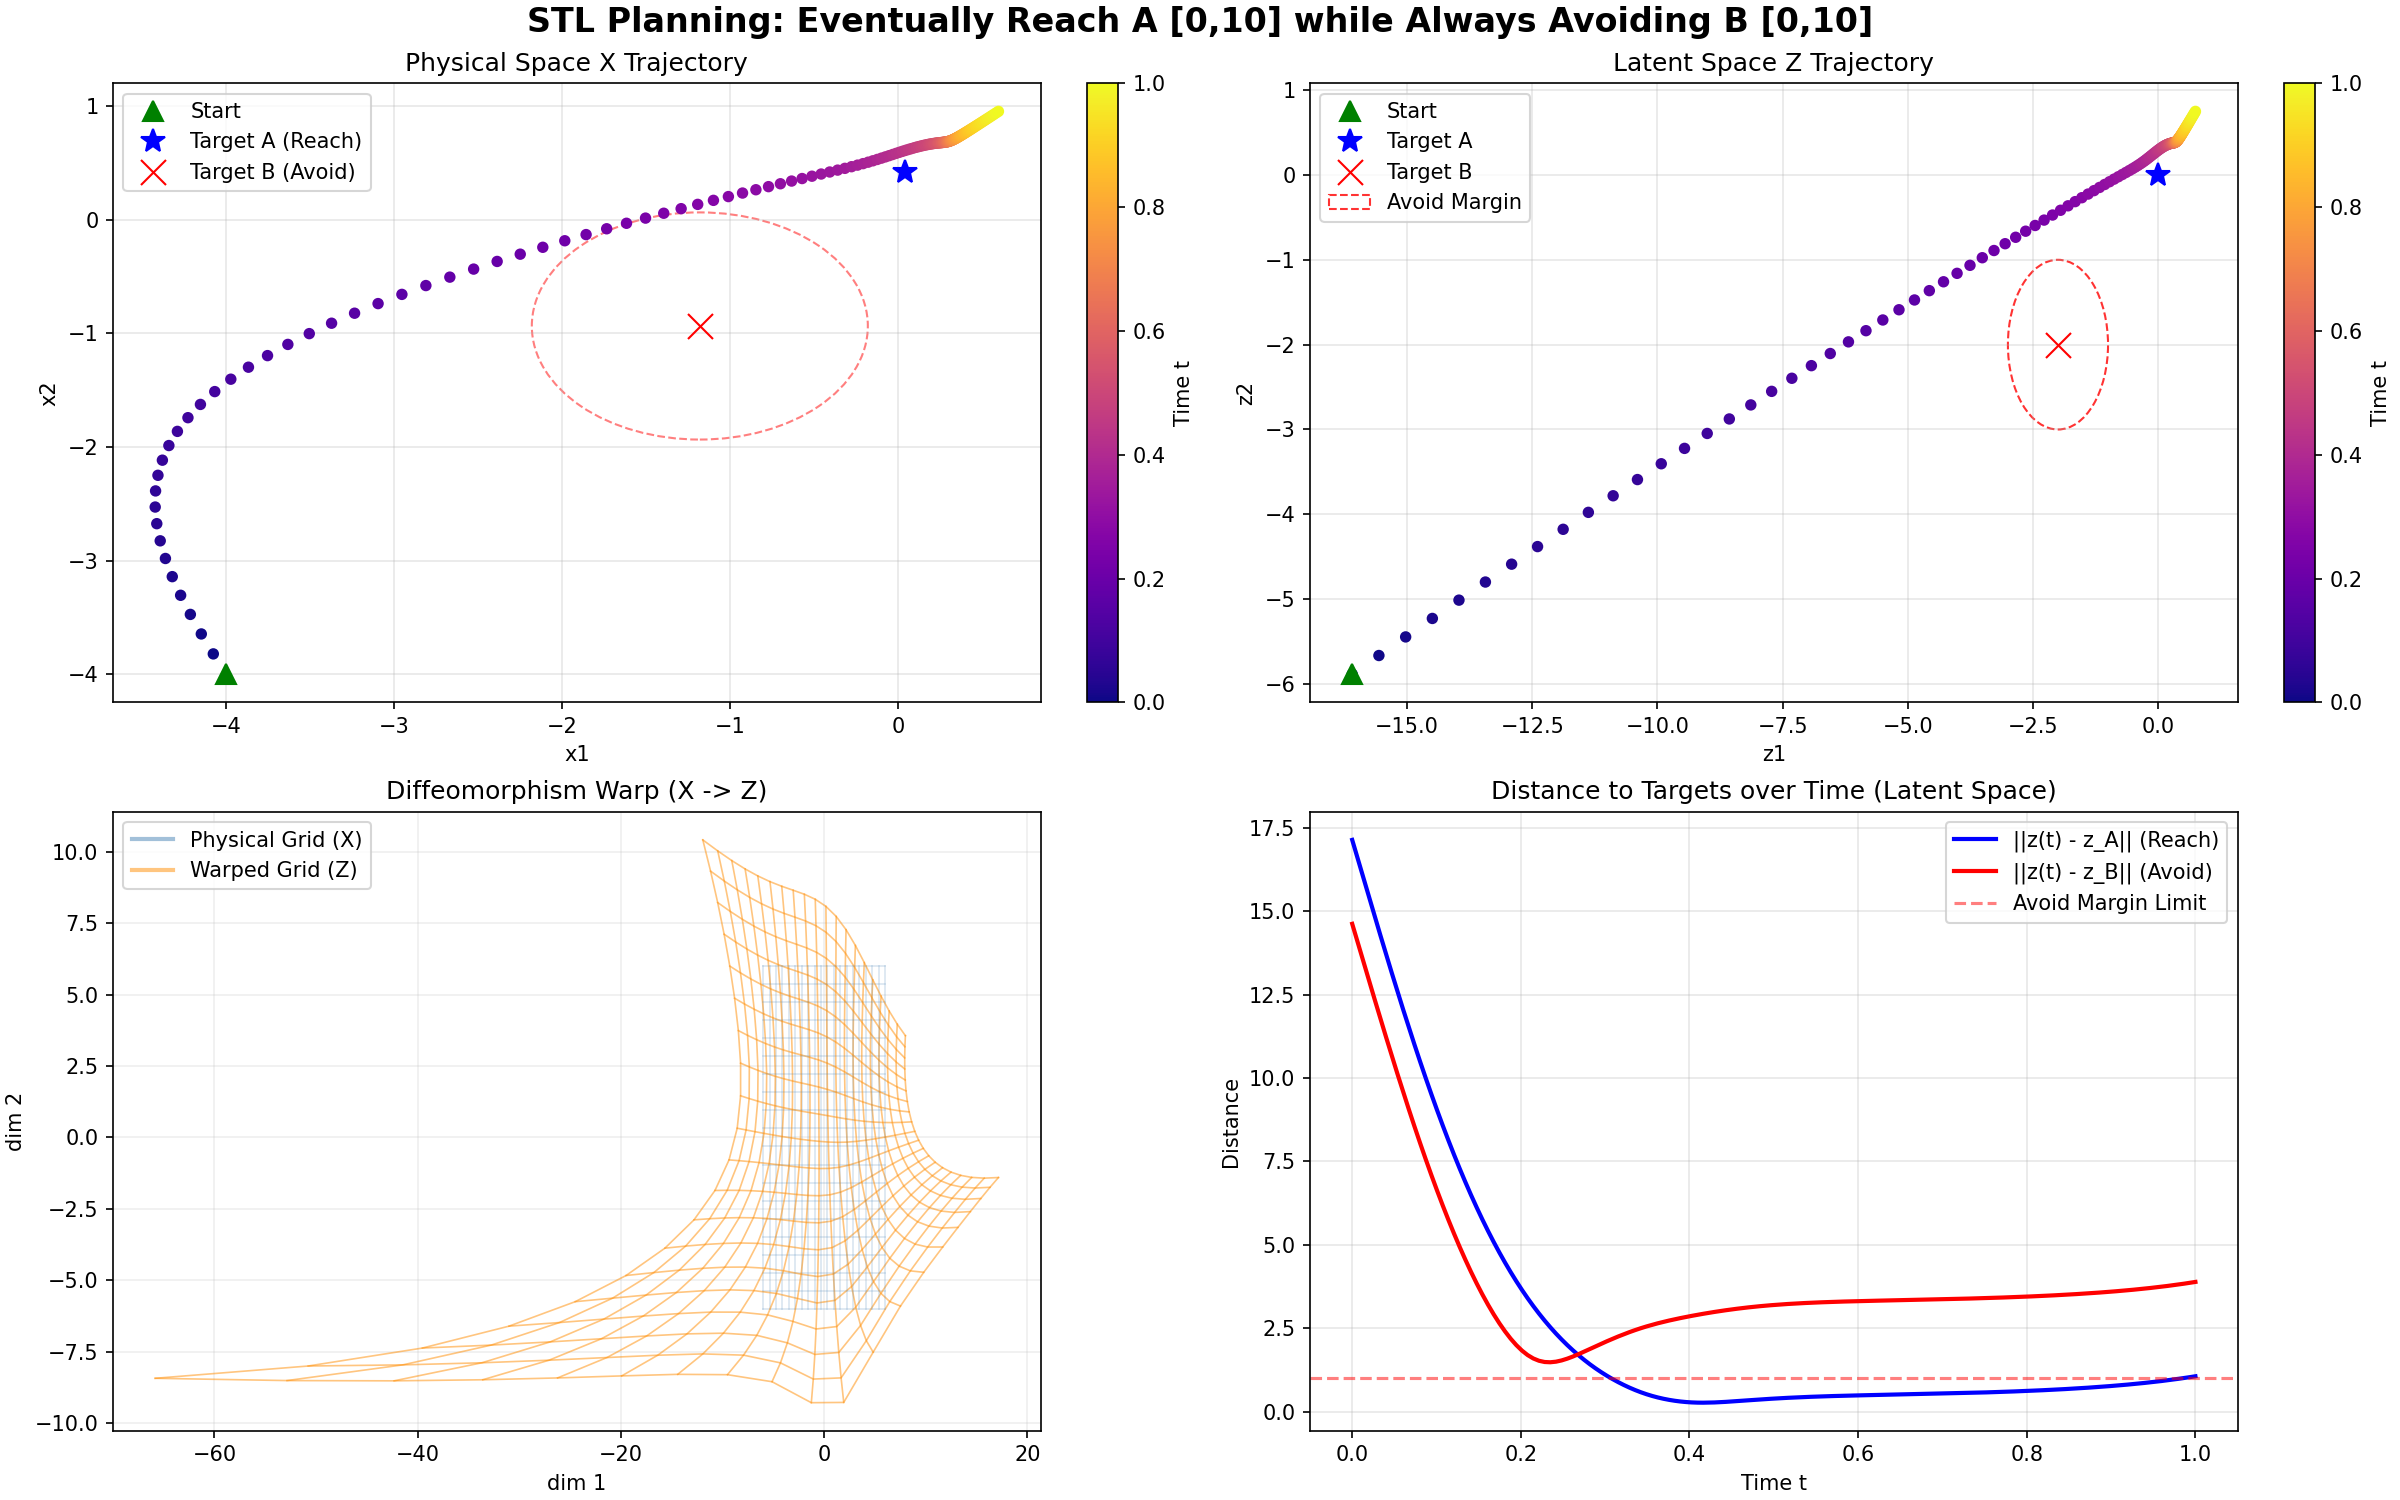
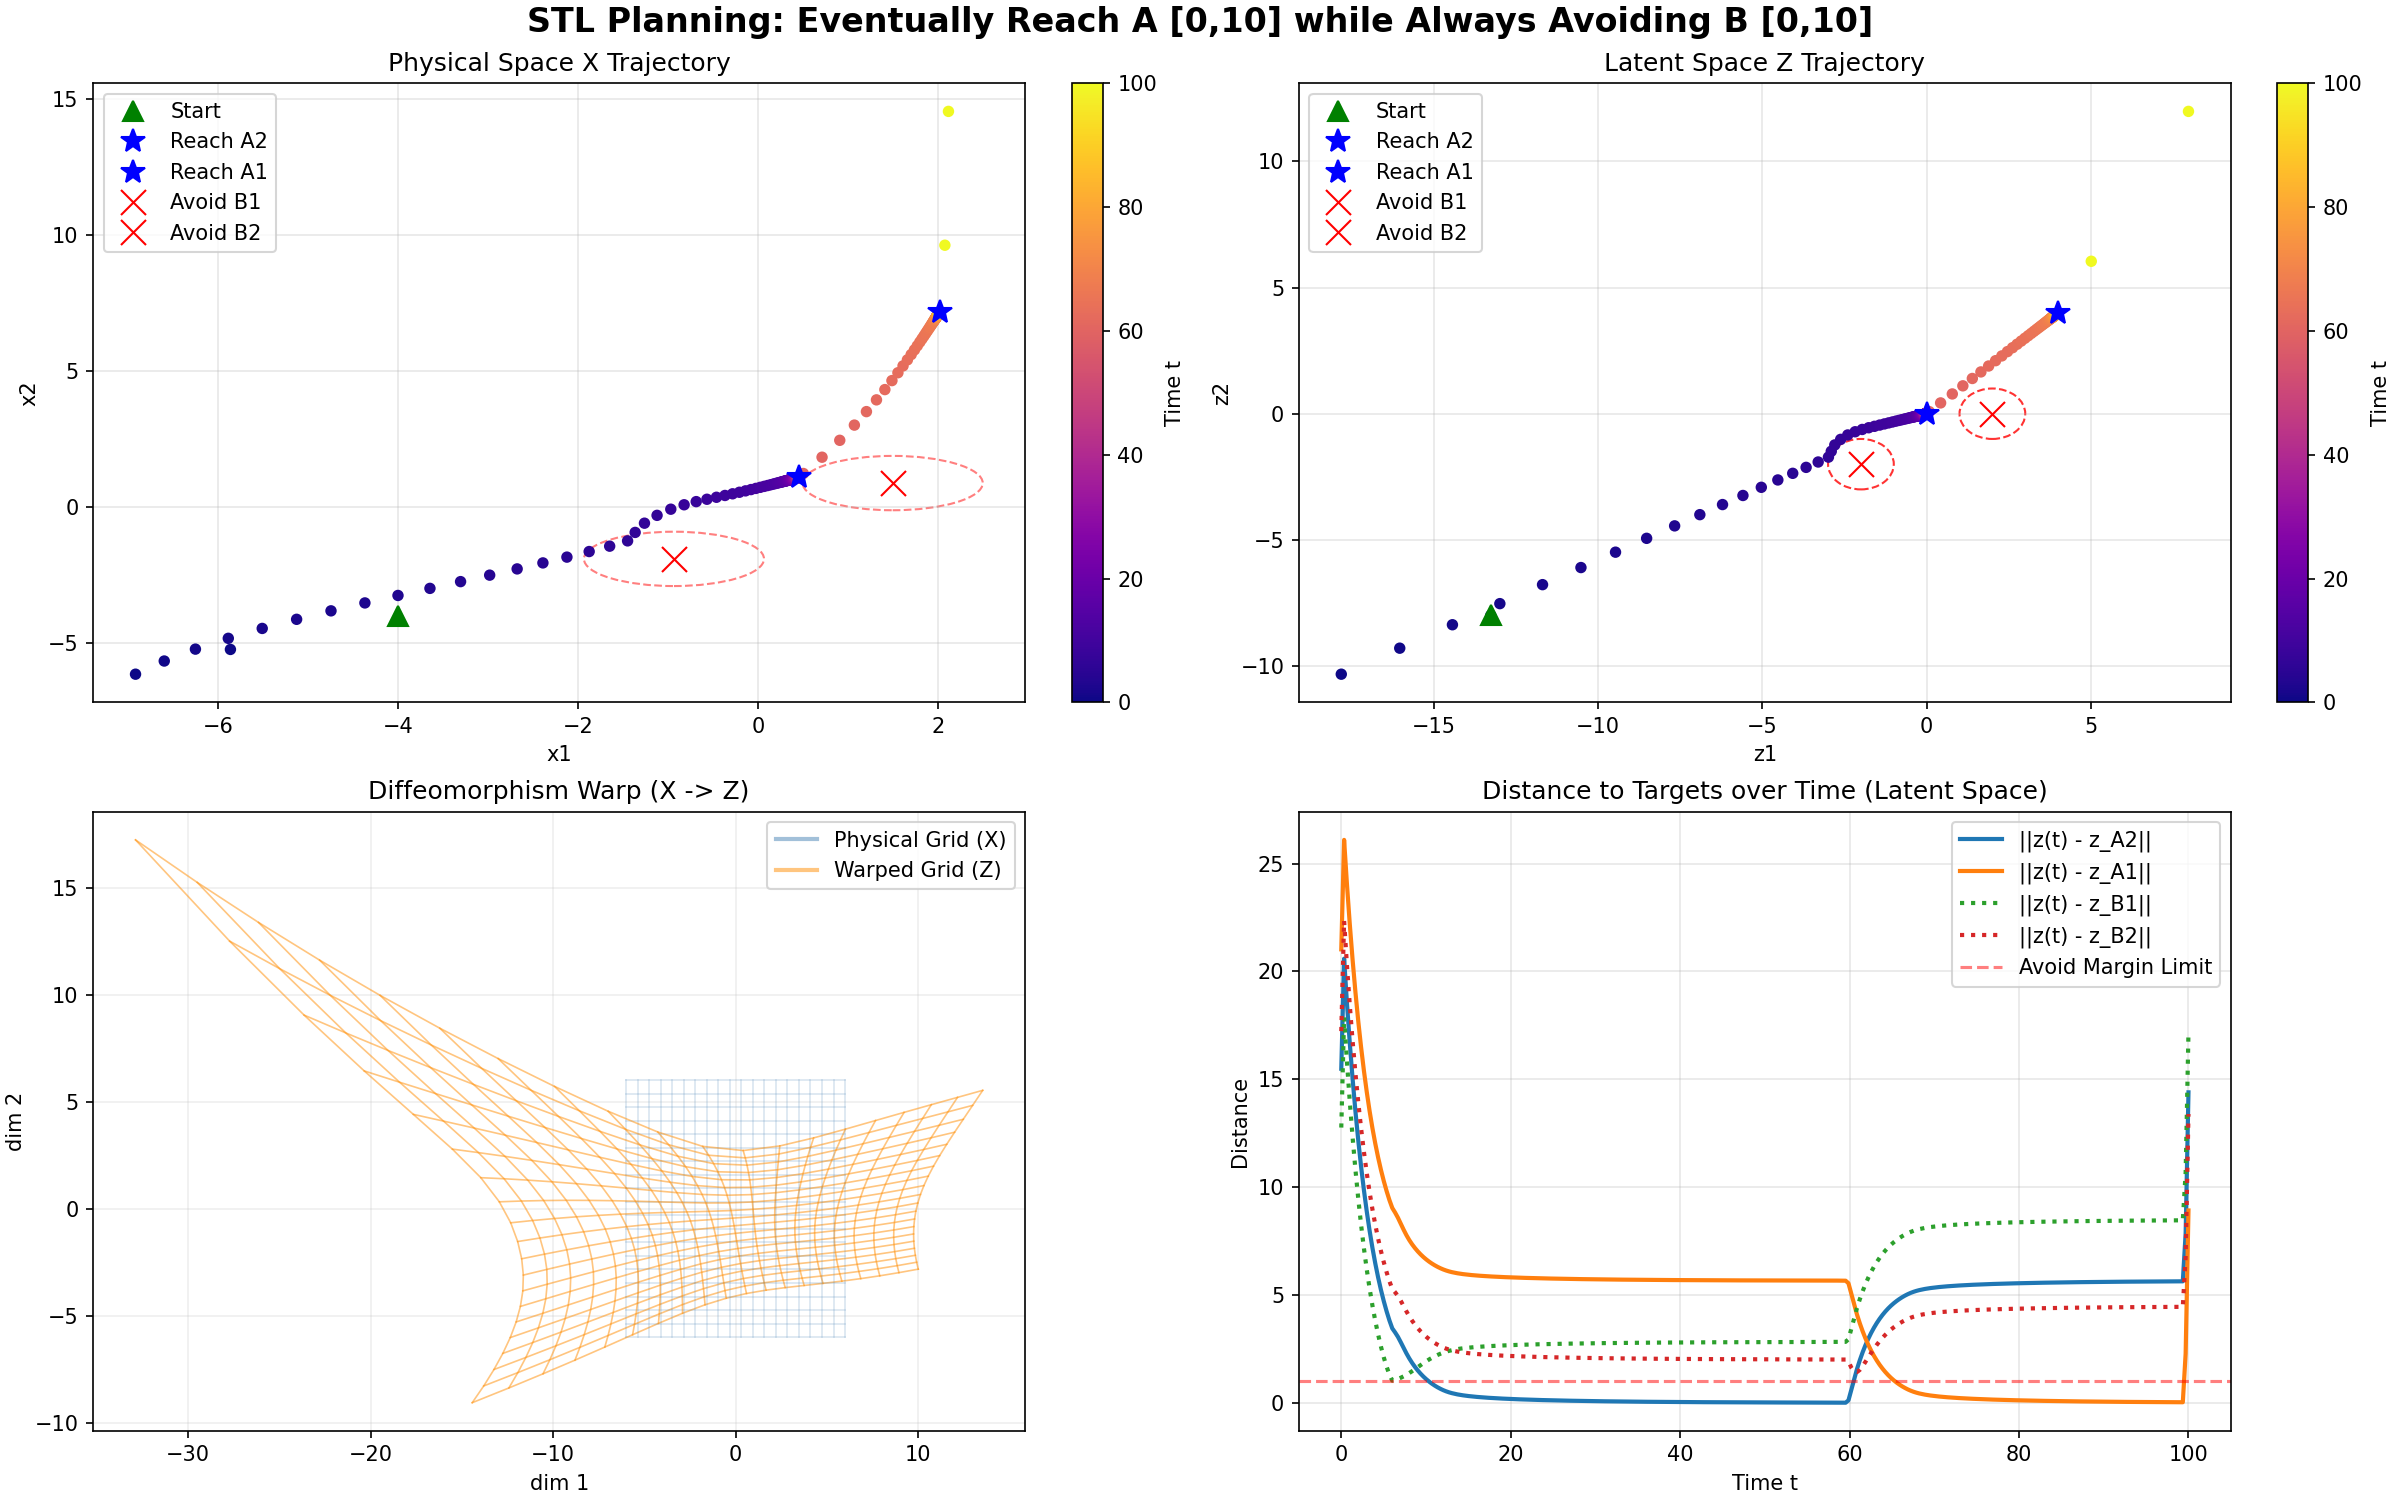
just before changing to manifold composition

diff --git a/src/viz.py b/src/viz.py
@@ -4,7 +4,7 @@ import matplotlib.pyplot as plt
 import matplotlib.gridspec as gridspec
 from matplotlib.lines import Line2D
 
-def plot_full_analysis(phi, z_traj, x_traj, time_steps, start_state, target_A, target_B, avoid_margin=1.0, figsize=(16, 10), grid_n=20, grid_limits=(-6, 6)):
+def plot_full_analysis(phi, z_traj, x_traj, time_steps, start_state, reach_targets, avoid_targets, avoid_margin=1.0, figsize=(16, 10), grid_n=20, grid_limits=(-6, 6)):
     fig = plt.figure(figsize=figsize, constrained_layout=True)
     fig.suptitle("STL Planning: Eventually Reach A [0,10] while Always Avoiding B [0,10]", 
                  fontsize=16, fontweight="bold")
@@ -12,8 +12,8 @@ def plot_full_analysis(phi, z_traj, x_traj, time_steps, start_state, target_A, t
 
     # Precompute target preimages for physical space tracking
     with torch.no_grad():
-        x_star_A = phi.inverse(torch.tensor([target_A], dtype=torch.float32)).squeeze().numpy()
-        x_star_B = phi.inverse(torch.tensor([target_B], dtype=torch.float32)).squeeze().numpy()
+        x_stars_reach = {name: phi.inverse(torch.tensor([pos], dtype=torch.float32)).squeeze().numpy() for name, pos in reach_targets.items()}
+        x_stars_avoid = {name: phi.inverse(torch.tensor([pos], dtype=torch.float32)).squeeze().numpy() for name, pos in avoid_targets.items()}
         
     z_start = z_traj[0]
 
@@ -22,12 +22,13 @@ def plot_full_analysis(phi, z_traj, x_traj, time_steps, start_state, target_A, t
     ax1.set_title("Physical Space X Trajectory")
     sc1 = ax1.scatter(x_traj[:, 0], x_traj[:, 1], c=time_steps, cmap="plasma", s=20, zorder=3)
     ax1.plot(*start_state, "g^", markersize=10, zorder=5, label="Start")
-    ax1.plot(*x_star_A, "b*", markersize=12, zorder=5, label="Target A (Reach)")
-    ax1.plot(*x_star_B, "rx", markersize=12, zorder=5, label="Target B (Avoid)")
     
-    # Approximate avoidance margin visualization in physical space 
-    circle_B = plt.Circle((x_star_B[0], x_star_B[1]), np.sqrt(avoid_margin), color='r', fill=False, linestyle='--', alpha=0.5)
-    ax1.add_patch(circle_B)
+    for name, pos in x_stars_reach.items():
+        ax1.plot(*pos, "b*", markersize=12, zorder=5, label=f"Reach {name}")
+    for name, pos in x_stars_avoid.items():
+        ax1.plot(*pos, "rx", markersize=12, zorder=5, label=f"Avoid {name}")
+        circle = plt.Circle((pos[0], pos[1]), np.sqrt(avoid_margin), color='r', fill=False, linestyle='--', alpha=0.5)
+        ax1.add_patch(circle)
     
     ax1.set_xlabel("x1"); ax1.set_ylabel("x2")
     ax1.legend(); ax1.grid(True, alpha=0.3)
@@ -38,12 +39,13 @@ def plot_full_analysis(phi, z_traj, x_traj, time_steps, start_state, target_A, t
     ax2.set_title("Latent Space Z Trajectory")
     sc2 = ax2.scatter(z_traj[:, 0], z_traj[:, 1], c=time_steps, cmap="plasma", s=20, zorder=3)
     ax2.plot(*z_start, "g^", markersize=10, zorder=5, label="Start")
-    ax2.plot(*target_A, "b*", markersize=12, zorder=5, label="Target A")
-    ax2.plot(*target_B, "rx", markersize=12, zorder=5, label="Target B")
     
-    # Margin in Latent Space 
-    circle_B_z = plt.Circle((target_B[0], target_B[1]), np.sqrt(avoid_margin), color='r', fill=False, linestyle='--', alpha=0.8, label="Avoid Margin")
-    ax2.add_patch(circle_B_z)
+    for name, pos in reach_targets.items():
+        ax2.plot(*pos, "b*", markersize=12, zorder=5, label=f"Reach {name}")
+    for name, pos in avoid_targets.items():
+        ax2.plot(*pos, "rx", markersize=12, zorder=5, label=f"Avoid {name}")
+        circle = plt.Circle((pos[0], pos[1]), np.sqrt(avoid_margin), color='r', fill=False, linestyle='--', alpha=0.8)
+        ax2.add_patch(circle)
 
     ax2.set_xlabel("z1"); ax2.set_ylabel("z2")
     ax2.legend(); ax2.grid(True, alpha=0.3)
@@ -76,8 +78,12 @@ def plot_full_analysis(phi, z_traj, x_traj, time_steps, start_state, target_A, t
     # 4. Convergence / Distance over Time
     ax4 = fig.add_subplot(gs[1, 1])
     ax4.set_title("Distance to Targets over Time (Latent Space)")
-    ax4.plot(time_steps, np.linalg.norm(z_traj - np.array(target_A), axis=1), color="blue", linewidth=2, label="||z(t) - z_A|| (Reach)")
-    ax4.plot(time_steps, np.linalg.norm(z_traj - np.array(target_B), axis=1), color="red", linewidth=2, label="||z(t) - z_B|| (Avoid)")
+    
+    for name, pos in reach_targets.items():
+        ax4.plot(time_steps, np.linalg.norm(z_traj - np.array(pos), axis=1), linewidth=2, label=f"||z(t) - z_{name}||")
+    for name, pos in avoid_targets.items():
+        ax4.plot(time_steps, np.linalg.norm(z_traj - np.array(pos), axis=1), linewidth=2, linestyle=':', label=f"||z(t) - z_{name}||")
+        
     ax4.axhline(np.sqrt(avoid_margin), color="red", linestyle="--", alpha=0.5, label="Avoid Margin Limit")
     
     ax4.set_xlabel("Time t"); ax4.set_ylabel("Distance")

diff --git a/src/main.py b/src/main.py
@@ -19,13 +19,15 @@ if __name__ == "__main__":
 
     # Start and Target Configurations
     start_state = config["scenario"]["start_state"]
-    target_A = config["scenario"]["target_A"]
-    target_B = config["scenario"]["target_B"]
+    reach_tgts = config["scenario"]["reach_targets"]
+    avoid_tgts = config["scenario"]["avoid_targets"]
 
-    # 2. Define STL Formula Programmatically: 
+    # 2. Define Complex STL Formula: F[0:90](A1) ∧ F[40:80](A2) ∧ G[0:100](¬B1) ∧ G[0:100](¬B2)
     formula = And(
-        Eventually(Reach(target_A, margin=config["stl"]["reach_margin"]), interval=config["stl"]["reach_interval"], k=config["stl"]["temporal_k"]),
-        Avoid(target_B, margin=config["stl"]["avoid_margin"], interval=config["stl"]["avoid_interval"], k=config["stl"]["temporal_k"]),
+        Eventually(Reach(reach_tgts["A1"], margin=config["stl"]["reach_margin"]), interval=config["stl"]["intervals"]["A1"], k=config["stl"]["temporal_k"]),
+        Eventually(Reach(reach_tgts["A2"], margin=config["stl"]["reach_margin"]), interval=config["stl"]["intervals"]["A2"], k=config["stl"]["temporal_k"]),
+        Avoid(avoid_tgts["B1"], margin=config["stl"]["avoid_margin"], interval=config["stl"]["intervals"]["B1"], k=config["stl"]["temporal_k"]),
+        Avoid(avoid_tgts["B2"], margin=config["stl"]["avoid_margin"], interval=config["stl"]["intervals"]["B2"], k=config["stl"]["temporal_k"]),
         beta=config["stl"]["and_beta"]
     )
     
@@ -46,7 +48,7 @@ if __name__ == "__main__":
     
     # 4. Visualize the diffeomorphism, temporal convergence, and trajectories
     plot_full_analysis(
-        phi, z_traj, x_traj, time_steps, start_state, target_A, target_B,
+        phi, z_traj, x_traj, time_steps, start_state, reach_tgts, avoid_tgts,
         avoid_margin=config["stl"]["avoid_margin"],
         figsize=tuple(config["viz"]["figsize"]),
         grid_n=config["viz"]["grid_n"],

diff --git a/src/stl.py b/src/stl.py
@@ -75,14 +75,15 @@ class Eventually(STLNode):
         return torch.tensor(1.0)
 
 class And(STLNode):
-    def __init__(self, left, right, beta=10.0):
-        self.left = left
-        self.right = right
+    def __init__(self, *children, beta=10.0):
+        self.children = children
         self.beta = beta
         
     def compute_loss(self, z, t):
-        return (1.0 / self.beta) * torch.logaddexp(self.beta * self.left.compute_loss(z, t), self.beta * self.right.compute_loss(z, t))
+        losses = torch.stack([child.compute_loss(z, t) for child in self.children])
+        return (1.0 / self.beta) * torch.logsumexp(self.beta * losses, dim=0)
         
     def compute_h(self, z, t):
-        # Both h1 >= 0 and h2 >= 0 must hold -> use smooth_min for CBF intersection
-        return -(1.0 / self.beta) * torch.logaddexp(-self.beta * self.left.compute_h(z, t), -self.beta * self.right.compute_h(z, t))
+        # All h_i >= 0 must hold -> use smooth_min for N-ary CBF intersection
+        hs = torch.stack([child.compute_h(z, t) for child in self.children])
+        return -(1.0 / self.beta) * torch.logsumexp(-self.beta * hs, dim=0)
